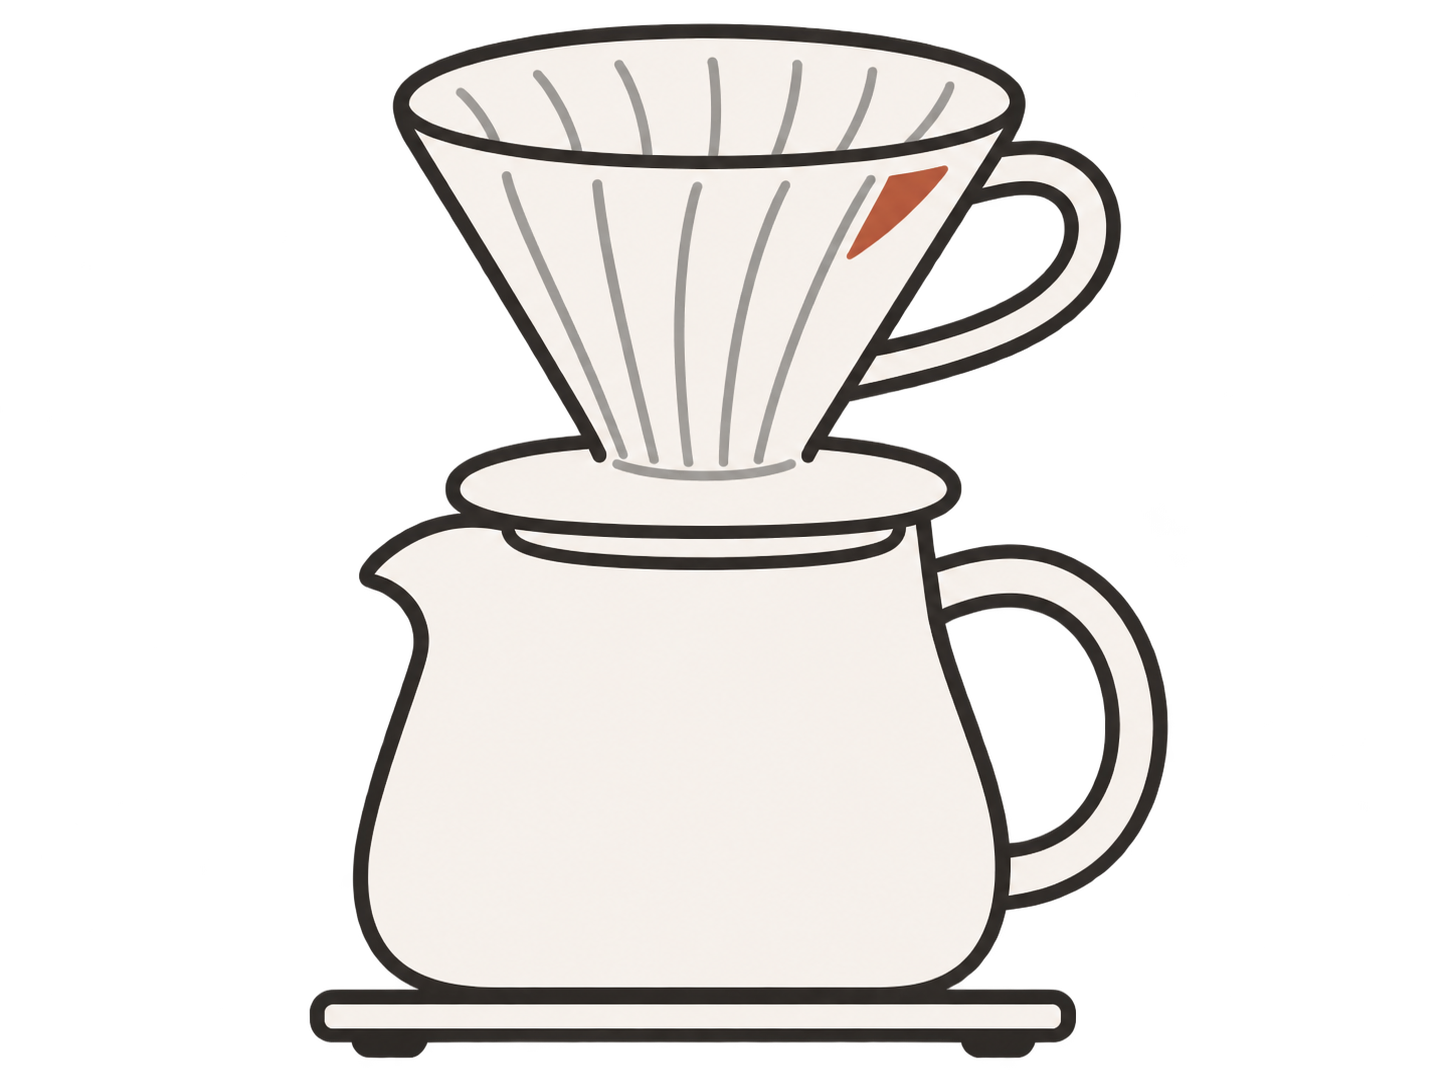
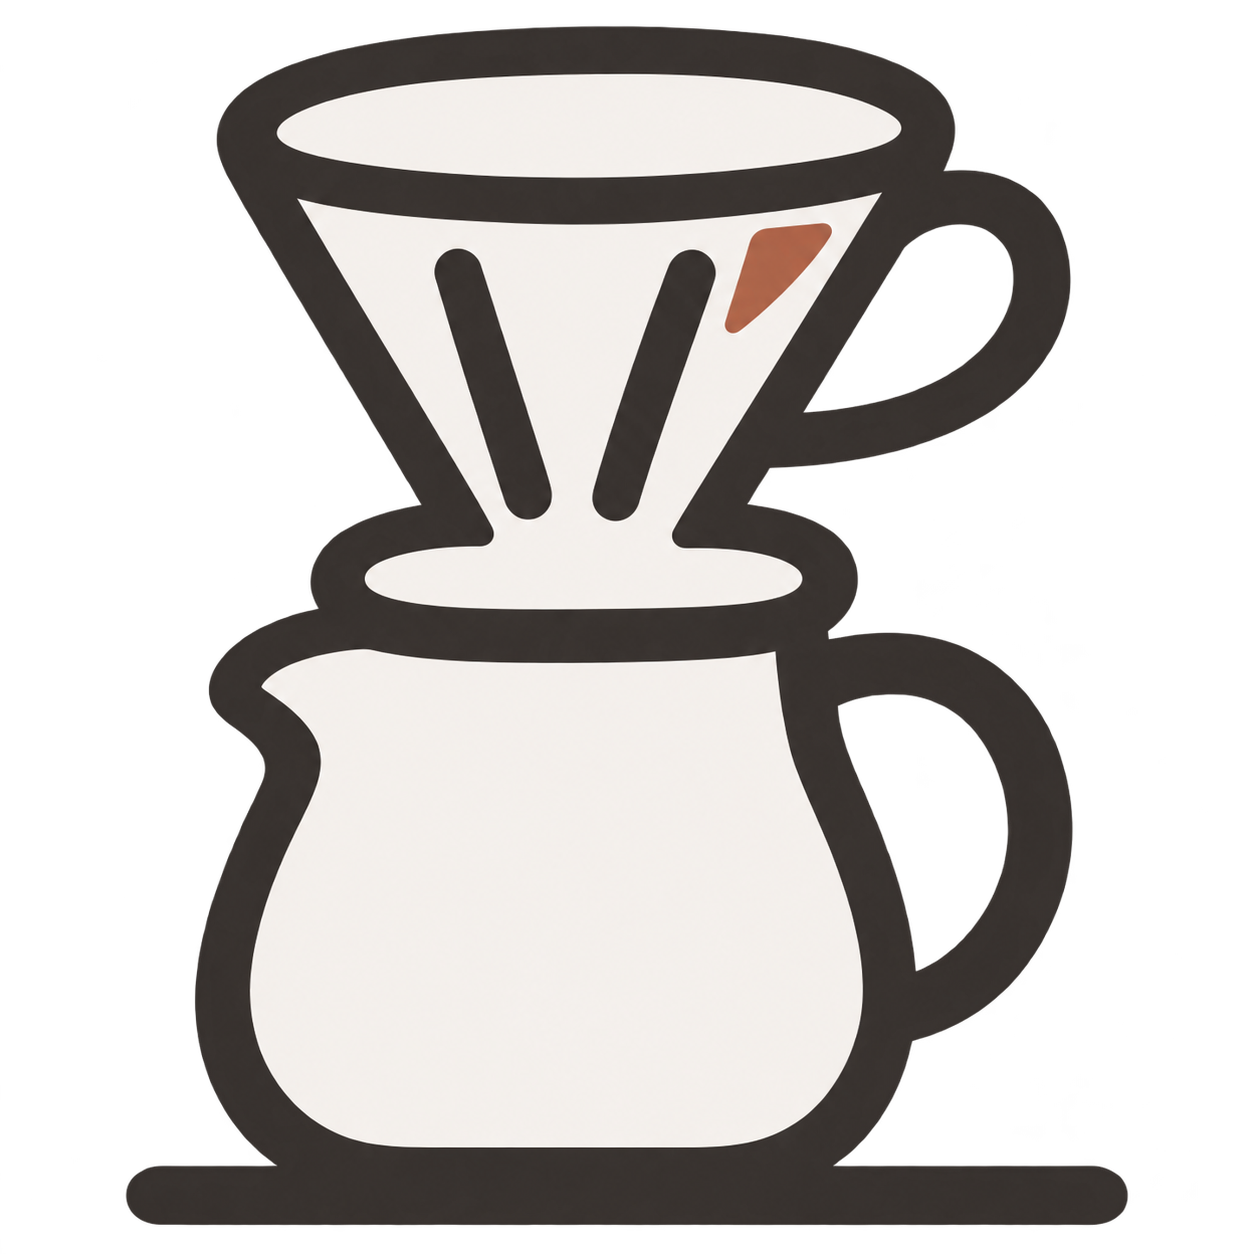
Compact weighing layout and add phase-aware illustrations

Changed region(s): [[0.0933, 0.0, 0.9019, 1.0]]

diff --git a/lib/ui/weighing_panel.dart b/lib/ui/weighing_panel.dart
@@ -81,41 +81,43 @@ class WeighingPanel extends StatelessWidget {
       padding: const EdgeInsets.symmetric(vertical: 16),
       child: Column(
         children: [
-          Stack(
-            alignment: Alignment.topRight,
+          Row(
             children: [
-              Center(
-                child: Image.asset(
-                  'assets/illustrations/pour-over-setup.png',
-                  height: 78,
-                  cacheHeight: 234,
-                  filterQuality: FilterQuality.high,
-                  semanticLabel: '저울 위에 놓인 서버와 드리퍼',
+              Image.asset(
+                isWeighing
+                    ? 'assets/illustrations/coffee-beans.png'
+                    : 'assets/illustrations/pour-over-setup.png',
+                key: const Key('setup-illustration'),
+                width: 64,
+                height: 64,
+                cacheHeight: 192,
+                fit: BoxFit.contain,
+                filterQuality: FilterQuality.high,
+                semanticLabel: isWeighing ? '커피 원두' : '저울 위에 놓인 서버와 드리퍼',
+              ),
+              const SizedBox(width: 16),
+              Expanded(
+                child: FittedBox(
+                  fit: BoxFit.scaleDown,
+                  alignment: Alignment.centerRight,
+                  child: Text(
+                    overloaded
+                        ? '용량 초과'
+                        : '${grams?.toStringAsFixed(1) ?? '0.0'} g',
+                    key: const Key('live-weight'),
+                    semanticsLabel: grams == null ? '저울 연결 대기, 0.0 g' : null,
+                    style: const TextStyle(
+                      fontSize: 64,
+                      letterSpacing: -2,
+                      fontWeight: FontWeight.w400,
+                      fontFeatures: [FontFeature.tabularFigures()],
+                    ),
+                  ),
                 ),
               ),
-              if (isWeighing)
-                TextButton.icon(
-                  key: const Key('restart-scale-setup'),
-                  onPressed: c.canChangeScale ? c.restartDoseSetup : null,
-                  icon: const Icon(Icons.restart_alt, size: 16),
-                  label: const Text('세팅 다시'),
-                ),
             ],
           ),
-          const SizedBox(height: 8),
-          FittedBox(
-            child: Text(
-              overloaded ? '용량 초과' : '${grams?.toStringAsFixed(1) ?? '—'} g',
-              key: const Key('live-weight'),
-              style: const TextStyle(
-                fontSize: 80,
-                letterSpacing: -2,
-                fontWeight: FontWeight.w400,
-                fontFeatures: [FontFeature.tabularFigures()],
-              ),
-            ),
-          ),
-          const SizedBox(height: 8),
+          const SizedBox(height: 12),
           if (!isWeighing && c.hasSetupWeight) ...[
             DecoratedBox(
               decoration: BoxDecoration(
@@ -140,16 +142,29 @@ class WeighingPanel extends StatelessWidget {
             const SizedBox(height: 6),
           ],
           if (suggested == null)
-            Text(
-              instruction,
-              key: const Key('weighing-instruction'),
-              textAlign: TextAlign.center,
-              style: const TextStyle(
-                color: ink,
-                fontSize: 14,
-                fontWeight: FontWeight.w500,
-                height: 1.6,
-              ),
+            Row(
+              children: [
+                Expanded(
+                  child: Text(
+                    instruction,
+                    key: const Key('weighing-instruction'),
+                    style: const TextStyle(
+                      color: ink,
+                      fontSize: 14,
+                      fontWeight: FontWeight.w500,
+                      height: 1.6,
+                    ),
+                  ),
+                ),
+                if (isWeighing) ...[
+                  const SizedBox(width: 8),
+                  TextButton(
+                    key: const Key('restart-scale-setup'),
+                    onPressed: c.canChangeScale ? c.restartDoseSetup : null,
+                    child: const Text('세팅 다시', style: TextStyle(fontSize: 12)),
+                  ),
+                ],
+              ],
             ),
           if (dose != null && c.validateDose(dose) == null) ...[
             const SizedBox(height: 8),

diff --git a/test/weighing_flow_test.dart b/test/weighing_flow_test.dart
@@ -30,17 +30,27 @@ void main() {
       scale.emit(380);
       await tester.pumpWidget(DotPourApp(preferences: prefs, controller: c));
       expect(find.text('380.0 g'), findsOneWidget);
+      final illustration = find.byKey(const Key('setup-illustration'));
+      expect(
+        tester.widget<Image>(illustration).semanticLabel,
+        '저울 위에 놓인 서버와 드리퍼',
+      );
       expect(c.canStart, false);
       await tester.tap(find.byKey(const Key('tare')));
       await tester.pump();
       expect(find.text('0.0 g'), findsOneWidget);
       expect(c.canStart, false);
       expect(find.text('원두를 담아 무게를 확인해 주세요.'), findsOneWidget);
+      expect(tester.widget<Image>(illustration).semanticLabel, '커피 원두');
       scale.emit(-380);
       await tester.pump();
       await tester.tap(find.byKey(const Key('restart-scale-setup')));
       await tester.pump();
       expect(find.text('서버와 드리퍼를 올리고\nTARE를 눌러 주세요.'), findsOneWidget);
+      expect(
+        tester.widget<Image>(illustration).semanticLabel,
+        '저울 위에 놓인 서버와 드리퍼',
+      );
       scale.emit(18);
       expect(c.canStart, false, reason: 'The former tare zero is now stale');
       await tester.tap(find.byKey(const Key('tare')));
@@ -87,6 +97,8 @@ void main() {
       ]),
     );
     await tester.pumpWidget(DotPourApp(preferences: prefs, controller: c));
+    expect(find.text('0.0 g'), findsOneWidget);
+    expect(c.canStart, false);
     final from = DateTime.now().subtract(const Duration(milliseconds: 1750));
     void send(double grams, int offset) {
       scale.lastReading = from.add(Duration(milliseconds: offset));
@@ -106,6 +118,12 @@ void main() {
     expect(c.canStart, false);
     await tester.tap(find.byKey(const Key('apply-suggested-dose')));
     await tester.pump();
+    expect(
+      tester
+          .widget<Image>(find.byKey(const Key('setup-illustration')))
+          .semanticLabel,
+      '커피 원두',
+    );
     expect(c.canStart, true);
     expect(find.text('원두 18.4g · 목표 물 294.4g'), findsOneWidget);
     await tester.tap(find.text('추출 시작'));
@@ -147,6 +165,12 @@ void main() {
       await tester.tap(find.text('원두량 적용'));
       await tester.pumpAndSettle();
       expect(find.text('원두 18g · 목표 물 288g'), findsOneWidget);
+      expect(
+        tester
+            .widget<Image>(find.byKey(const Key('setup-illustration')))
+            .semanticLabel,
+        '커피 원두',
+      );
       await tester.tap(find.text('추출 시작'));
       await tester.pump();
       expect(c.brew.dose, 18);

diff --git a/lib/main.dart b/lib/main.dart
@@ -448,7 +448,8 @@ class _BrewScreenState extends State<BrewScreen> {
   Widget _brewing() {
     final brew = c.brew;
     final scale = c.scale!;
-    return Center(
+    return Align(
+      alignment: Alignment.topCenter,
       child: ConstrainedBox(
         constraints: const BoxConstraints(maxWidth: 608),
         child: SingleChildScrollView(
